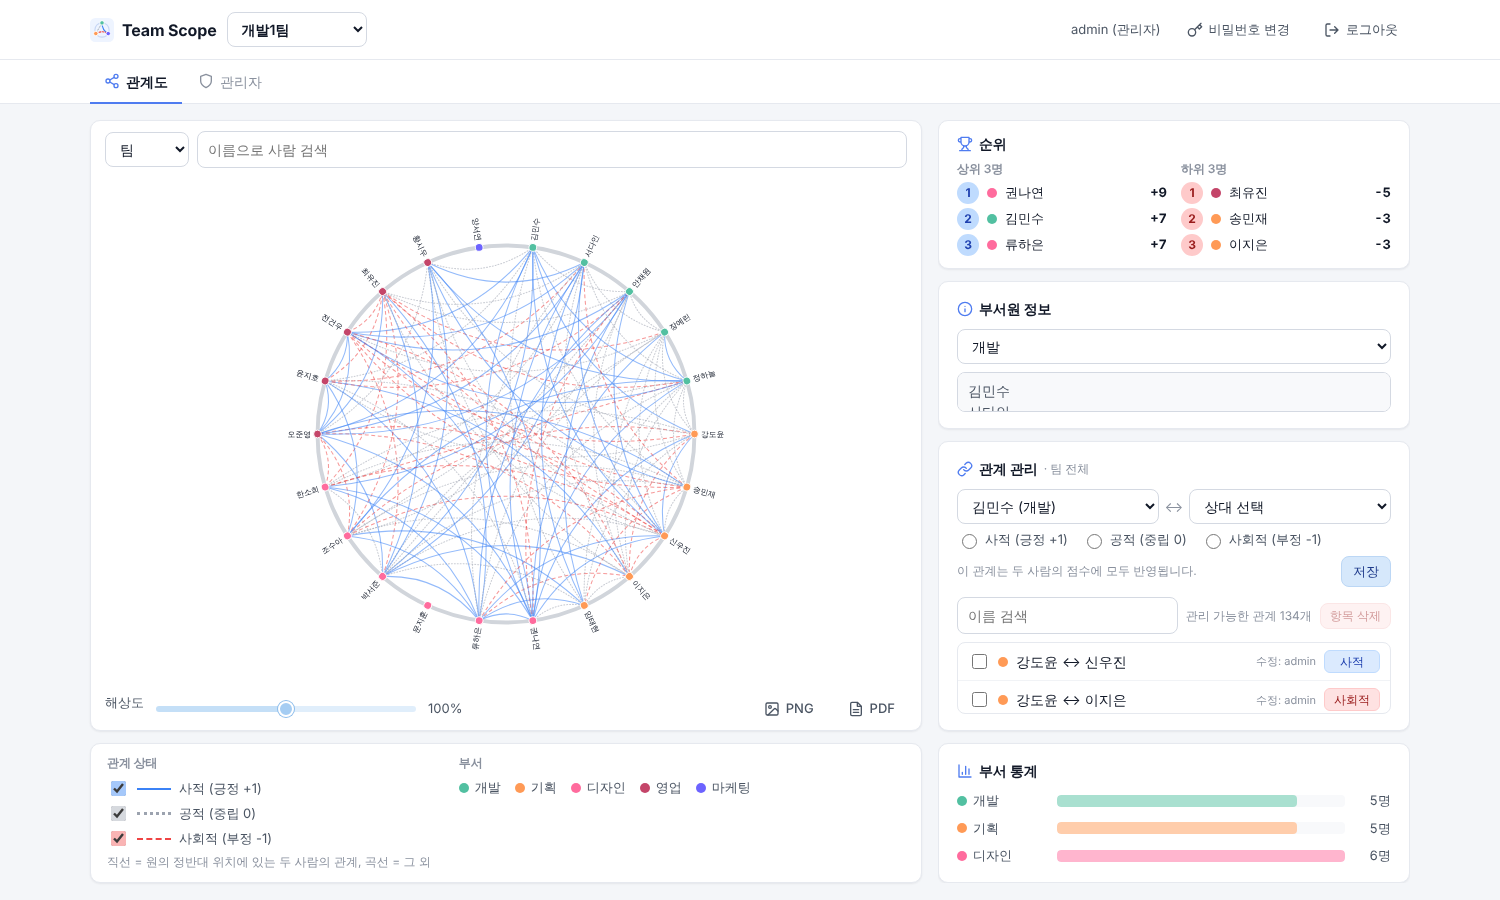
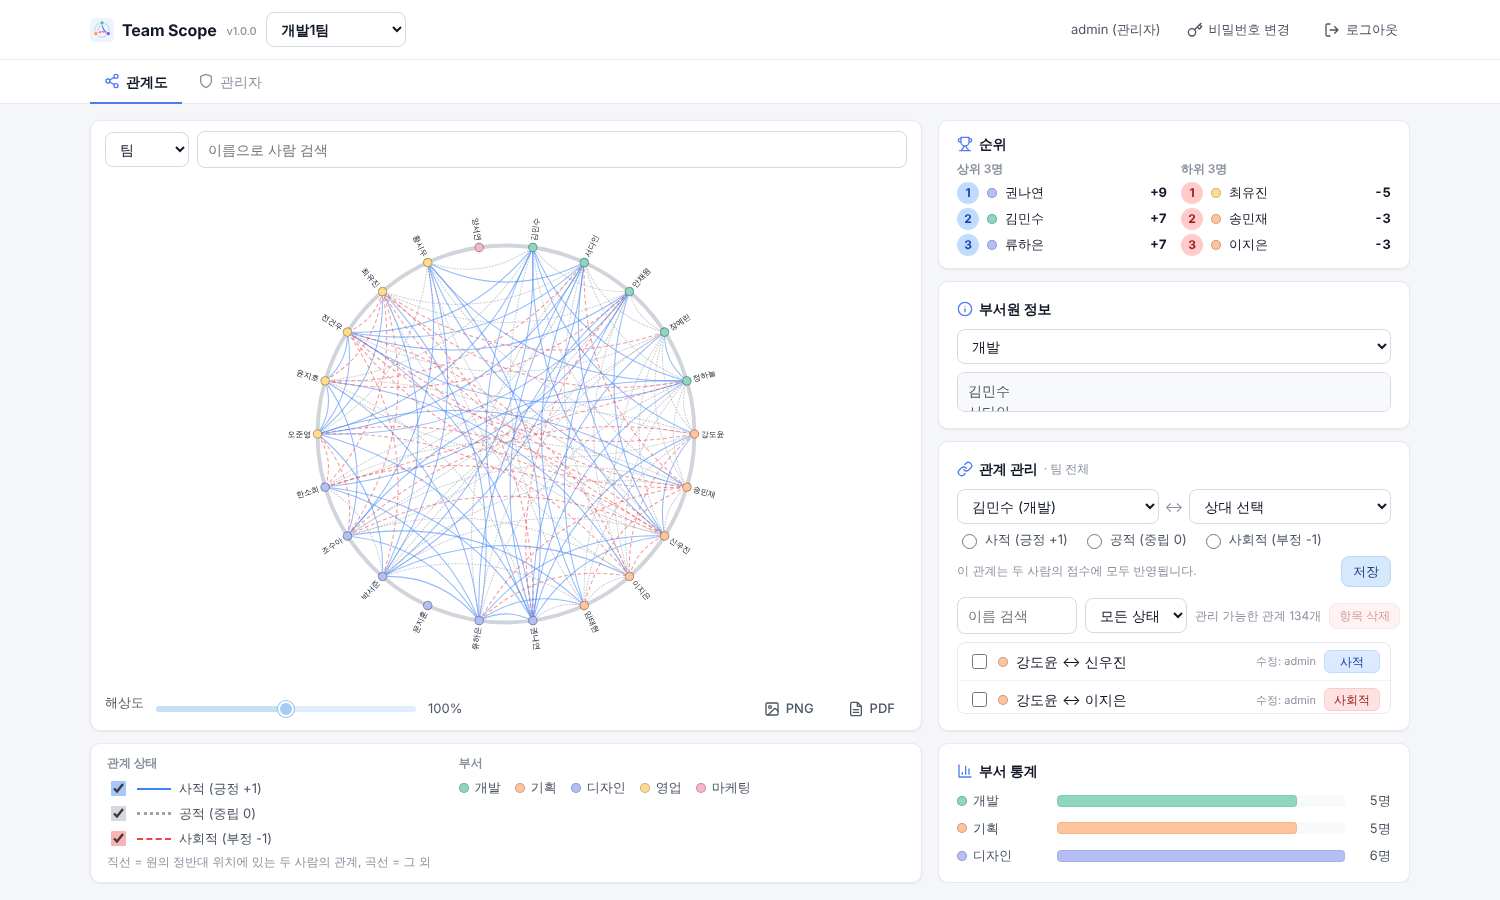
Switch department colors to a 16-color pastel palette
- New 16 pastel palette ordered so neighboring departments get clearly
  different hues; diagram nodes get a darker same-hue outline and dots get a
  subtle ring so pastel fills stay visible on white
- Departments still using the 1.0.0 10-color palette (and old exports) are
  reassigned distinct colors from the new palette on load/import
- Department stats bars use the department color directly
- Tests updated (120 total)

Claude-Session: https://claude.ai/code/session_01DsfKjRFUmAajqSco24Yp3e

diff --git a/public/style.css b/public/style.css
@@ -197,11 +197,11 @@ button:focus-visible, .select-list li:focus-visible, .tab:focus-visible, .subtab
 .legend-status label { flex-direction: row; align-items: center; gap: 8px; margin: 0; cursor: pointer; font-weight: 400; }
 .legend-depts { display: flex; flex-wrap: wrap; gap: 6px 14px; }
 .legend-item { display: inline-flex; align-items: center; gap: 6px; font-size: 13px; color: var(--text-2); }
-.dot { display: inline-block; width: 10px; height: 10px; border-radius: 50%; flex: 0 0 auto; }
+.dot { display: inline-block; width: 10px; height: 10px; border-radius: 50%; flex: 0 0 auto; box-shadow: inset 0 0 0 1px rgba(17, 24, 39, .22); }
 
 /* 차트 요소 */
 #chart .ring { fill: none; stroke: #D1D5DB; stroke-width: 6px; pointer-events: none; }
-#chart .node circle { stroke: #fff; stroke-width: 1.5px; cursor: pointer; }
+#chart .node circle { stroke: var(--node-stroke, #9ca3af); stroke-width: 1.5px; cursor: pointer; }
 #chart .node text { font-size: 12px; fill: var(--text); cursor: pointer; }
 #chart .node.me text { font-weight: 700; }
 #chart .edge .line { fill: none; stroke-width: 1.6px; stroke-opacity: .55; pointer-events: none; transition: stroke-opacity .15s, stroke-width .15s; }
@@ -232,7 +232,7 @@ button:focus-visible, .select-list li:focus-visible, .tab:focus-visible, .subtab
 .stat-row { display: grid; grid-template-columns: 90px 1fr 36px; gap: 10px; align-items: center; font-size: 13px; }
 .stat-row .name { display: flex; align-items: center; gap: 6px; overflow: hidden; text-overflow: ellipsis; white-space: nowrap; color: var(--text-2); }
 .stat-bar { height: 12px; background: var(--surface-2); border-radius: 4px; overflow: hidden; }
-.stat-bar span { display: block; height: 100%; border-radius: 4px; }
+.stat-bar span { display: block; height: 100%; border-radius: 4px; box-shadow: inset 0 0 0 1px rgba(17, 24, 39, .08); }
 .stat-row .num { text-align: right; color: var(--text-2); }
 
 #panel-my-relations { display: flex; flex-direction: column; max-height: 60vh; }
@@ -333,8 +333,8 @@ button:focus-visible, .select-list li:focus-visible, .tab:focus-visible, .subtab
 .acc-badge.inactive { background: #fee2e2; color: #991b1b; }
 .acc-badge.locked { background: #fef3c7; color: #92400e; }
 
-.palette { display: flex; flex-wrap: wrap; gap: 6px; margin-bottom: 10px; }
-.swatch { width: 26px; height: 26px; border-radius: 50%; border: 2px solid transparent; cursor: pointer; padding: 0; }
+.palette { display: grid; grid-template-columns: repeat(8, 26px); gap: 8px; margin-bottom: 10px; }
+.swatch { width: 26px; height: 26px; border-radius: 50%; border: 2px solid transparent; cursor: pointer; padding: 0; box-shadow: inset 0 0 0 1px rgba(17, 24, 39, .18); }
 .swatch.selected { border-color: #111827; box-shadow: 0 0 0 2px #fff inset; }
 
 /* 활동 로그 필터 */

diff --git a/public/app.js b/public/app.js
@@ -155,14 +155,6 @@ function fmtDate(iso) {
   return `${d.getFullYear()}-${p(d.getMonth() + 1)}-${p(d.getDate())} ${p(d.getHours())}:${p(d.getMinutes())}`;
 }
 
-/** 색을 흰색과 섞어 파스텔 톤으로 (amount: 흰색 비율 0~1) */
-function pastel(hex, amount = 0.5) {
-  const n = parseInt(hex.slice(1), 16);
-  const mix = (c) => Math.round(c + (255 - c) * amount);
-  const [r, g, b] = [(n >> 16) & 255, (n >> 8) & 255, n & 255].map(mix);
-  return `rgb(${r}, ${g}, ${b})`;
-}
-
 function fmtScore(n) {
   return n > 0 ? `+${n}` : String(n);
 }
@@ -752,7 +744,9 @@ function renderChart() {
       edges.classed('hover', false);
       hideTooltip();
     });
-  nodes.append('circle').attr('r', 6).attr('fill', (p) => deptColor(p.departmentId));
+  // 파스텔 부서색이 흰 바탕에서도 보이도록 같은 계열의 진한 테두리
+  nodes.append('circle').attr('r', 6.5).attr('fill', (p) => deptColor(p.departmentId))
+    .style('--node-stroke', (p) => d3.color(deptColor(p.departmentId)).darker(1.1).formatHex());
   nodes.append('text')
     .attr('dy', '0.32em')
     .attr('x', (p) => (pos.get(p.id).angle < 180 ? 10 : -10))
@@ -1002,7 +996,7 @@ function renderDeptStats() {
   for (const { d, n } of counts) {
     box.append(h('div', { class: 'stat-row', title: `${d.name}: ${n}명` }, [
       h('span', { class: 'name' }, [h('span', { class: 'dot', style: { background: d.color } }), d.name]),
-      h('div', { class: 'stat-bar' }, [h('span', { style: { width: `${(n / max) * 100}%`, background: pastel(d.color) } })]),
+      h('div', { class: 'stat-bar' }, [h('span', { style: { width: `${(n / max) * 100}%`, background: d.color } })]),
       h('span', { class: 'num', text: `${n}명` }),
     ]));
   }

diff --git a/public/api/storage.php b/public/api/storage.php
@@ -29,10 +29,16 @@ const BACKUP_KEEP_DAYS = 14;
 const DEFAULT_ADMIN_LOGIN = 'admin';     // 관리자 계정이 하나도 없을 때 자동 생성
 const DEFAULT_ADMIN_PASSWORD = 'admin';  // 운영 전에 헤더의 '비밀번호 변경'으로 바꿀 것
 
+/**
+ * 부서 색상 (파스텔 16색). 새 부서는 이 순서대로 아직 쓰지 않은 색을 받으므로,
+ * 이웃한 색끼리 색상(hue)이 최대한 다르도록 섞어 두었다.
+ */
 const PALETTE = [
-    '#52C0A1', '#FF9A56', '#FF6B9D', '#C44569', '#6C63FF',
-    '#5DADE2', '#F39C12', '#E74C3C', '#AF7AC5', '#48C9B0',
+    '#8FD6C2', '#FFC49B', '#B5BEF5', '#FFDB8E', '#F8B4C8', '#93D8E0', '#F4A6A0', '#D8B4EC',
+    '#A8DDB0', '#EDB0DB', '#A6CFF2', '#E2CBA8', '#CDE8A0', '#E8B79E', '#BFC8D6', '#EEE89A',
 ];
+/** 1.0.0까지 쓰던 10색 — 이 색을 쓰는 부서는 새 색상표에서 겹치지 않는 색을 다시 배정받는다 */
+const LEGACY_COLORS = ['#52C0A1', '#FF9A56', '#FF6B9D', '#C44569', '#6C63FF', '#5DADE2', '#F39C12', '#E74C3C', '#AF7AC5', '#48C9B0'];
 const STATUS_SCORES = ['private' => 1, 'public' => 0, 'social' => -1];
 /** 부서원 직급: 팀장 / 부서장 / 부서원 */
 const POSITIONS = ['leader' => '팀장', 'head' => '부서장', 'member' => '부서원'];
@@ -257,6 +263,7 @@ function load_team(string $teamId): ?array
         return null;
     }
     $team += ['departments' => [], 'people' => [], 'relationships' => [], 'revision' => 0];
+    $team['departments'] = migrate_department_colors($team['departments']);
     return $team;
 }
 
@@ -431,10 +438,11 @@ function valid_position(mixed $p): string
 
 function valid_color(mixed $c): string
 {
-    if (!is_string($c) || !in_array(strtoupper($c), PALETTE, true)) {
+    $c = is_string($c) ? strtoupper($c) : null;
+    if ($c === null || !in_array($c, PALETTE, true)) {
         throw new ApiError(400, '부서 색상은 팔레트 색상 중 하나여야 합니다.');
     }
-    return strtoupper($c);
+    return $c;
 }
 
 // ---------------------------------------------------------------------------
@@ -453,6 +461,23 @@ function find_index(array $list, string $id): int
         }
     }
     return -1;
+}
+
+/**
+ * 색상표에 없는 색(1.0.0까지의 10색 등)을 쓰는 부서에 새 색상표의 색을 부서 순서대로 다시 배정한다.
+ * 이미 새 색을 쓰는 부서는 그대로 두고, 겹치지 않는 색부터 고른다. (다음 저장 때 파일에도 반영됨)
+ */
+function migrate_department_colors(array $departments): array
+{
+    $kept = array_values(array_filter($departments, fn($d) => in_array(strtoupper((string)($d['color'] ?? '')), PALETTE, true)));
+    foreach ($departments as &$d) {
+        if (!in_array(strtoupper((string)($d['color'] ?? '')), PALETTE, true)) {
+            $d['color'] = next_department_color($kept);
+            $kept[] = $d;
+        }
+    }
+    unset($d);
+    return $departments;
 }
 
 function next_department_color(array $departments): string

diff --git a/tests/api_test.php b/tests/api_test.php
@@ -133,9 +133,9 @@ check('팀 생성', $r['status'] === 200 && $teamId !== '');
 check('팀 이름 중복 409', $admin->call('team_create', ['name' => '개발1팀'])['status'] === 409);
 $r = $admin->call('department_create', ['teamId' => $teamId, 'name' => '개발']);
 $deptId = $r['data']['department']['id'] ?? '';
-check('부서 생성 + 첫 팔레트 색 배정', ($r['data']['department']['color'] ?? '') === '#52C0A1');
+check('부서 생성 + 첫 팔레트 색 배정', ($r['data']['department']['color'] ?? '') === '#8FD6C2');
 $r2 = $admin->call('department_create', ['teamId' => $teamId, 'name' => '기획']);
-check('두 번째 부서는 다음 색', ($r2['data']['department']['color'] ?? '') === '#FF9A56');
+check('두 번째 부서는 다음 색', ($r2['data']['department']['color'] ?? '') === '#FFC49B');
 $dept2 = $r2['data']['department']['id'];
 
 $r = $admin->call('person_create', ['teamId' => $teamId, 'name' => '김민수', 'departmentId' => $deptId, 'loginId' => 'minsu.kim']);
@@ -357,12 +357,16 @@ $dup = $export;
 $dup['relationships'][] = ['a' => $export['relationships'][0]['b'], 'b' => $export['relationships'][0]['a'], 'status' => 'social'];
 check('중복 쌍 거부', $admin->call('team_import', ['data' => $dup, 'name' => '중복팀'])['status'] === 400);
 check('실패한 가져오기는 저장되지 않음', count($admin->call('teams')['data']['teams']) === 3);
+// 예전 색상표 색(#52C0A1)으로 만든 파일도 새 파스텔 색으로 바꿔 가져온다
 $big = ['schemaVersion' => 1, 'departments' => [['id' => 'd1', 'name' => 'A', 'color' => '#52C0A1']], 'people' => [], 'relationships' => []];
 for ($i = 0; $i < 35; $i++) {
     $big['people'][] = ['id' => "p{$i}", 'name' => "사람{$i}", 'departmentId' => 'd1'];
 }
 check('30명 초과 파일은 maxMembers 없으면 거부', $admin->call('team_import', ['data' => $big, 'name' => '대형팀'])['status'] === 409);
-check('maxMembers 지정 시 가져오기', $admin->call('team_import', ['data' => $big, 'name' => '대형팀', 'maxMembers' => 40])['status'] === 200);
+$r = $admin->call('team_import', ['data' => $big, 'name' => '대형팀', 'maxMembers' => 40]);
+check('maxMembers 지정 시 가져오기', $r['status'] === 200);
+check('예전 색상은 새 파스텔 색으로 변환', $admin->call('team_data', null, ['teamId' => $r['data']['team']['id']])['data']['departments'][0]['color'] === '#8FD6C2');
+check('색상표 16색', count($admin->call('me')['data']['palette']) === 16);
 
 $log = $admin->call('audit_log')['data']['entries'];
 $actions = array_column($log, 'action');

diff --git a/public/api/index.php b/public/api/index.php
@@ -1125,7 +1125,9 @@ function act_team_import(array $input, array $ctx): array
                 throw new ApiError(400, "부서명이 중복됩니다: {$dname}");
             }
         }
-        $color = isset($d['color']) ? valid_color($d['color']) : next_department_color($departments);
+        // 예전 색상표의 색(1.0.0 이하에서 내보낸 파일)은 새 색상표에서 다시 배정
+        $legacy = is_string($d['color'] ?? null) && in_array(strtoupper($d['color']), LEGACY_COLORS, true);
+        $color = isset($d['color']) && !$legacy ? valid_color($d['color']) : next_department_color($departments);
         $deptMap[$oldId] = new_id('d');
         $departments[] = ['id' => $deptMap[$oldId], 'name' => $dname, 'color' => $color];
     }

diff --git a/CHANGELOG.md b/CHANGELOG.md
@@ -12,7 +12,9 @@
 - 관계 관리(관리자 탭, 관계도 화면 카드)에 상태 필터 추가
 
 ### 변경
-- 부서 관리 탭의 부서 추가·부서 수정 카드, 부서원 관리 탭의 부서원 추가·선택한 부서원·일괄 등록 카드 높이 통일
+- 부서 색상을 파스텔 16색으로 변경 (이웃한 색끼리 잘 구분되도록 순서 배치, 관계도 노드에 같은 계열의 진한 테두리).
+  1.0.0의 10색을 쓰던 부서와 예전에 내보낸 팀 파일은 새 색상표에서 겹치지 않는 색으로 자동 재배정
+- 부서 부서 추가·부서 수정 카드, 부서원 관리 탭의 부서원 추가·선택한 부서원·일괄 등록 카드 높이 통일
 
 ## [1.0.0] - 2026-10-15
 
